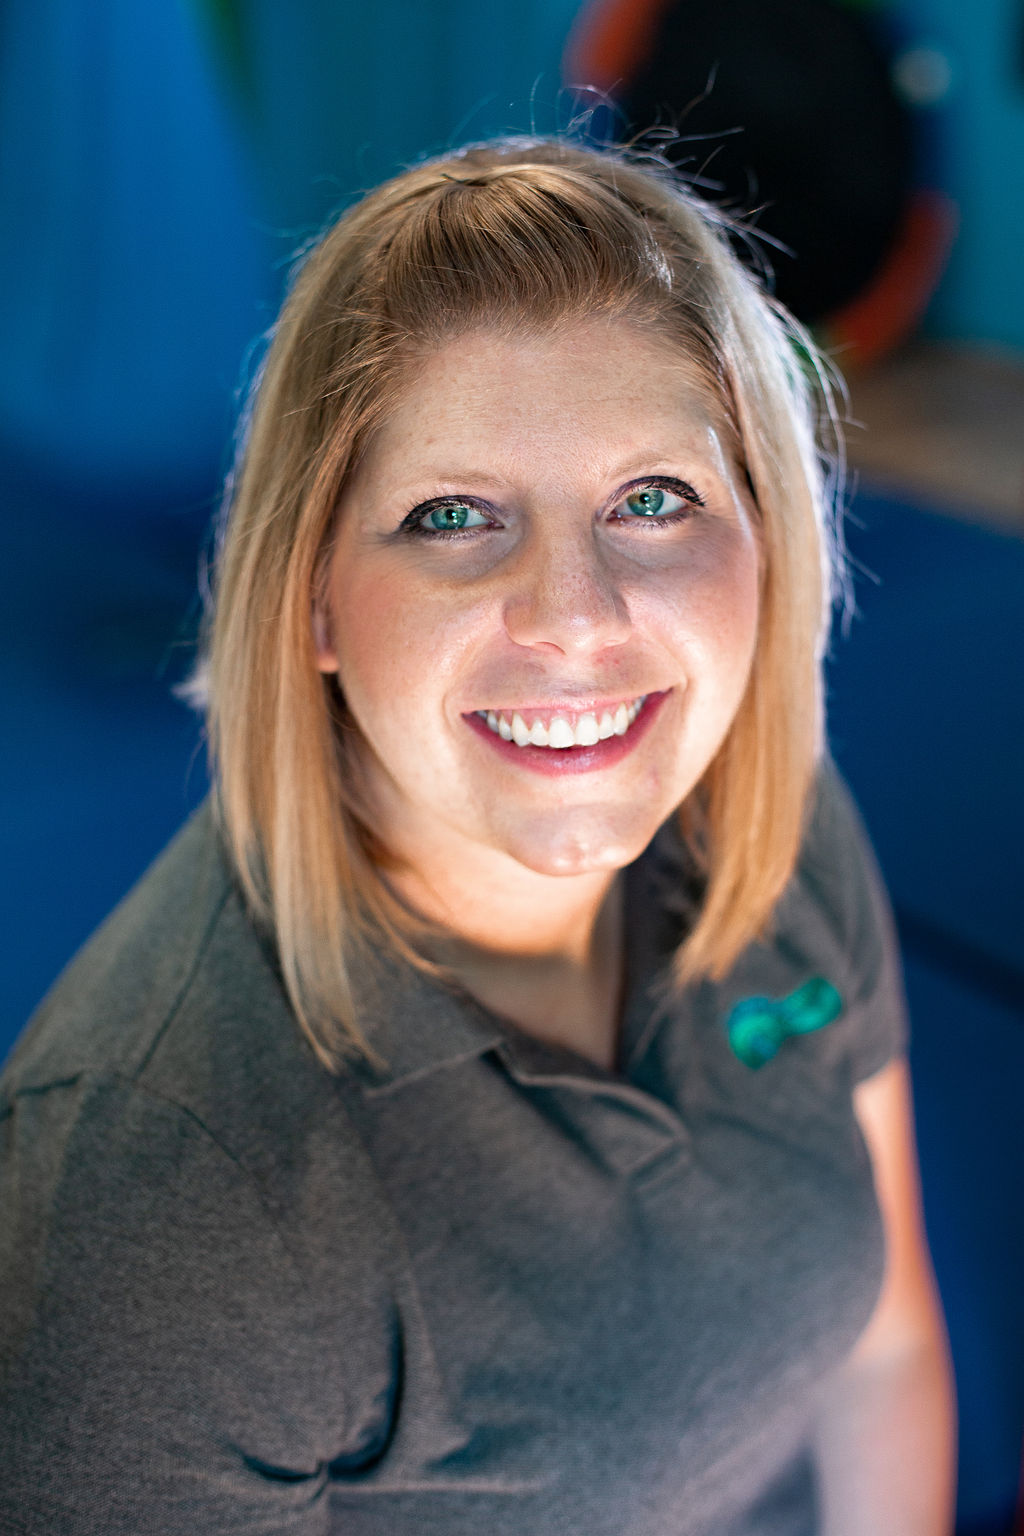
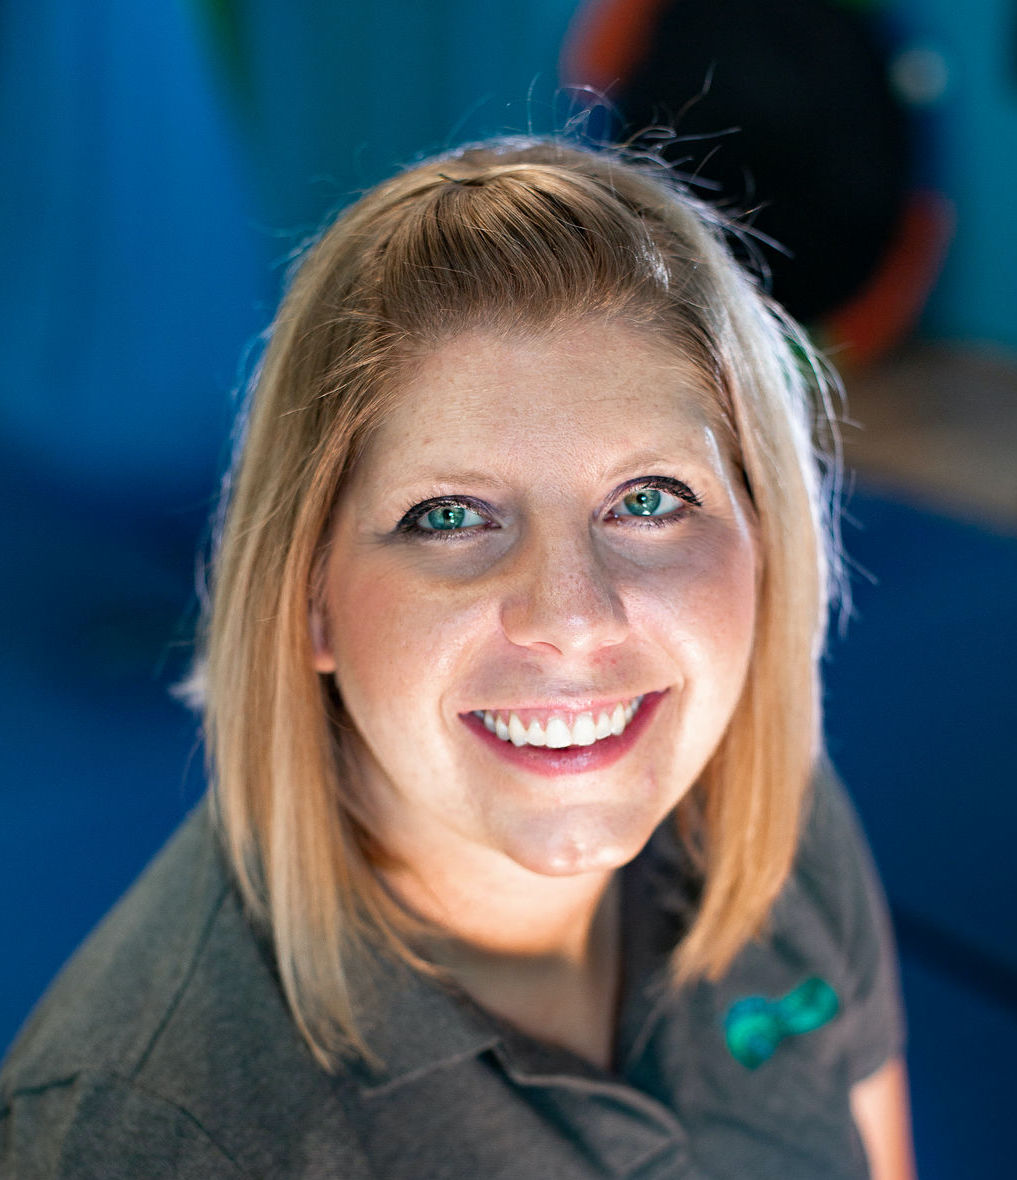
compressed photos, updated styles, updates references to photos in templates

diff --git a/pedcon_main/templates/pedcon_main/about_us.html b/pedcon_main/templates/pedcon_main/about_us.html
@@ -210,6 +210,33 @@
       <div class="col-xl-6 col-lg-12">
         <a href="#flip-tile">
           <div id="staff-tiles">
+            <span>Trisha Morris</span>
+              <div id="staff-photo">
+                <img src="{% static 'pedcon_main/images/no-photo.svg' %}">
+              </div>
+              <div id="title">
+                Occupational Therapist
+              </div>
+              <div id="email">
+                <a href="mailto: trisha@pediatricconnectionsot.com">
+                trisha@pediatricconnectionsot.com
+                </a>
+              </div>
+              <div id="phone_num">
+                <a href="tel: 913-257-5808">
+                  913-257-5808
+                </a>
+              </div>
+              <div id="voicemail">
+                Voicemail Box: 9
+              </div>
+          </div>
+        </a>
+      </div> <!--End box-->
+
+      <div class="col-xl-6 col-lg-12">
+        <a href="#flip-tile">
+          <div id="staff-tiles">
             <span>Lisa Bergeson</span>
               <div id="staff-photo">
                 <img src="{% static 'pedcon_main/images/lisa_bergeson_portrait.jpg' %}">
@@ -234,11 +261,11 @@
         </a>
       </div> <!--End box-->
 
-      <div class="col-xl-12">
+      <div class="col-xl-6 col-lg-12">
         <a href="#flip-tile">
           <div id="staff-tiles">
             <span>Paula Worley</span>
-              <div class="last-staff-tile" id="staff-photo">
+              <div id="staff-photo">
                 <img src="{% static 'pedcon_main/images/paula_portrait.jpg' %}">
               </div>
               <div id="title">
@@ -261,7 +288,34 @@
         </a>
       </div> <!--End box-->
 
+      <div class="col-xl-6 col-lg-12">
+        <a href="#flip-tile">
+          <div id="staff-tiles">
+            <span>Andrea Arlotti</span>
+              <div id="staff-photo">
+                <img src="{% static 'pedcon_main/images/andrea_portrait.jpg' %}">
+              </div>
+              <div id="title">
+                Trauma, Adult/Parent Care Specialist
+              </div>
+              <div id="email">
+                <a href="mailto: andrea@pediatricconnectionsot.com">
+                andrea@pediatricconnectionsot.com
+                </a>
+              </div>
+              <div id="phone_num">
+                <a href="tel: 913-257-5808">
+                  913-257-5808
+                </a>
+              </div>
+              <div id="voicemail">
+                <!-- Voicemail Box:  -->
+              </div>
+          </div>
+        </a>
+      </div> <!--End box-->
+
+
     </div> <!--End class="row"-->
-  </div> <!--End class="container"-->
 
 {% endblock content %}

diff --git a/pedcon_main/static/pedcon_main/css/styles.css b/pedcon_main/static/pedcon_main/css/styles.css
@@ -445,6 +445,9 @@ form button.btn:hover { /* All forms have these styles on buttons */
 }
 .staffContainer {
   padding:15px;
+  display: flex;
+  flex-wrap: wrap;
+  justify-content: center;
 }
 #staff-tiles {
   height: 250px;
@@ -632,7 +635,7 @@ form button.btn:hover { /* All forms have these styles on buttons */
   z-index: -1; /* z-index must be here for links to be clicked. otherwise, image covers links and they are un-clickable */
 }
 .bgimg-1 {
-  background-image: url("../images/cute_baby.jpg");
+  background-image: url("../images/rings.jpg");
   height: 100vh;
 }
 .bgimg-2 {
@@ -644,7 +647,7 @@ form button.btn:hover { /* All forms have these styles on buttons */
   height: 75vh;
 }
 .bgimg-4 {
-  background-image: url('../images/cute_baby.jpg');
+  background-image: url('../images/rings.jpg');
   height: 75vh;
 }
 .caption {

diff --git a/pedcon_main/templates/pedcon_main/services.html b/pedcon_main/templates/pedcon_main/services.html
@@ -84,7 +84,7 @@
 
   <div class="below-img3">
     <div class="three_img">
-      <img class="yoga" src="{% static 'pedcon_main/images/yoga.png' %}">
+      <img class="yoga" src="{% static 'pedcon_main/images/yoga.jpg' %}">
     </div>
     <div class="three_txt">
       <p>
